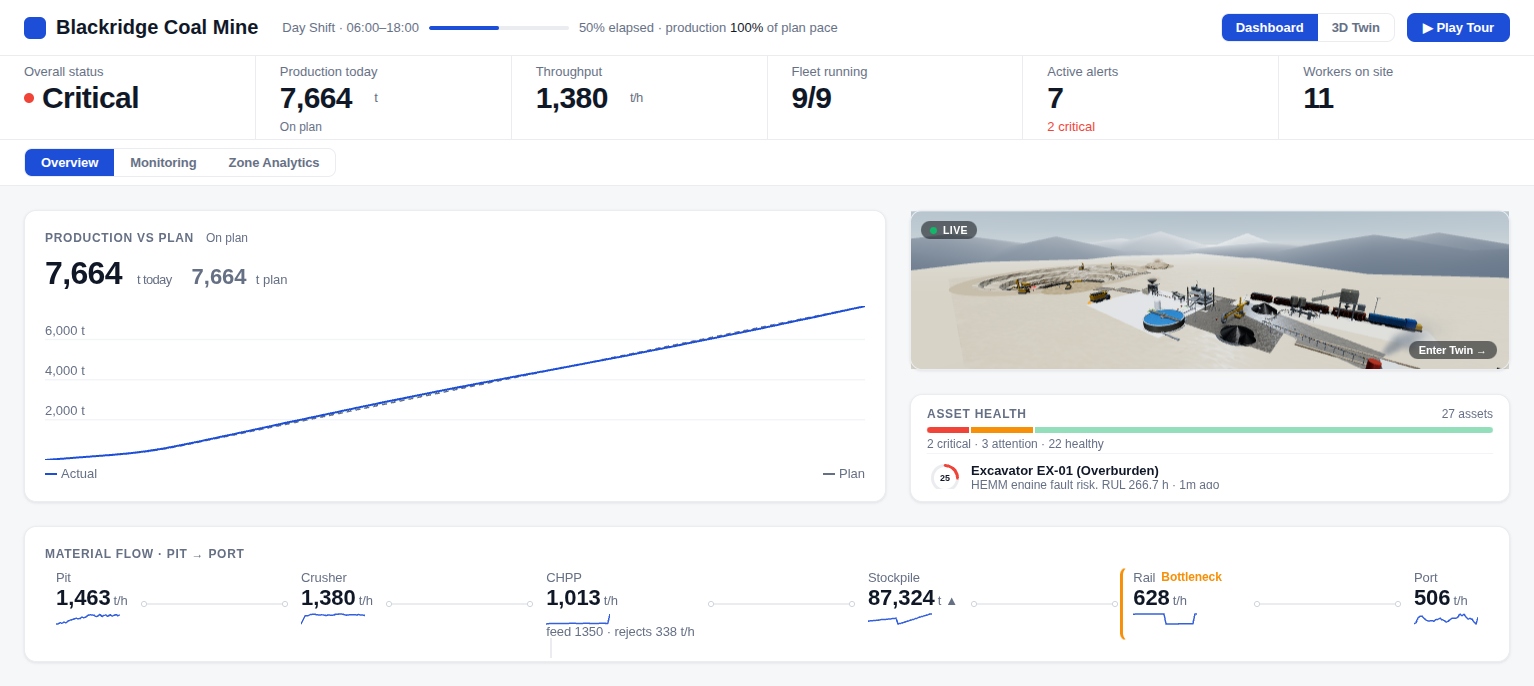
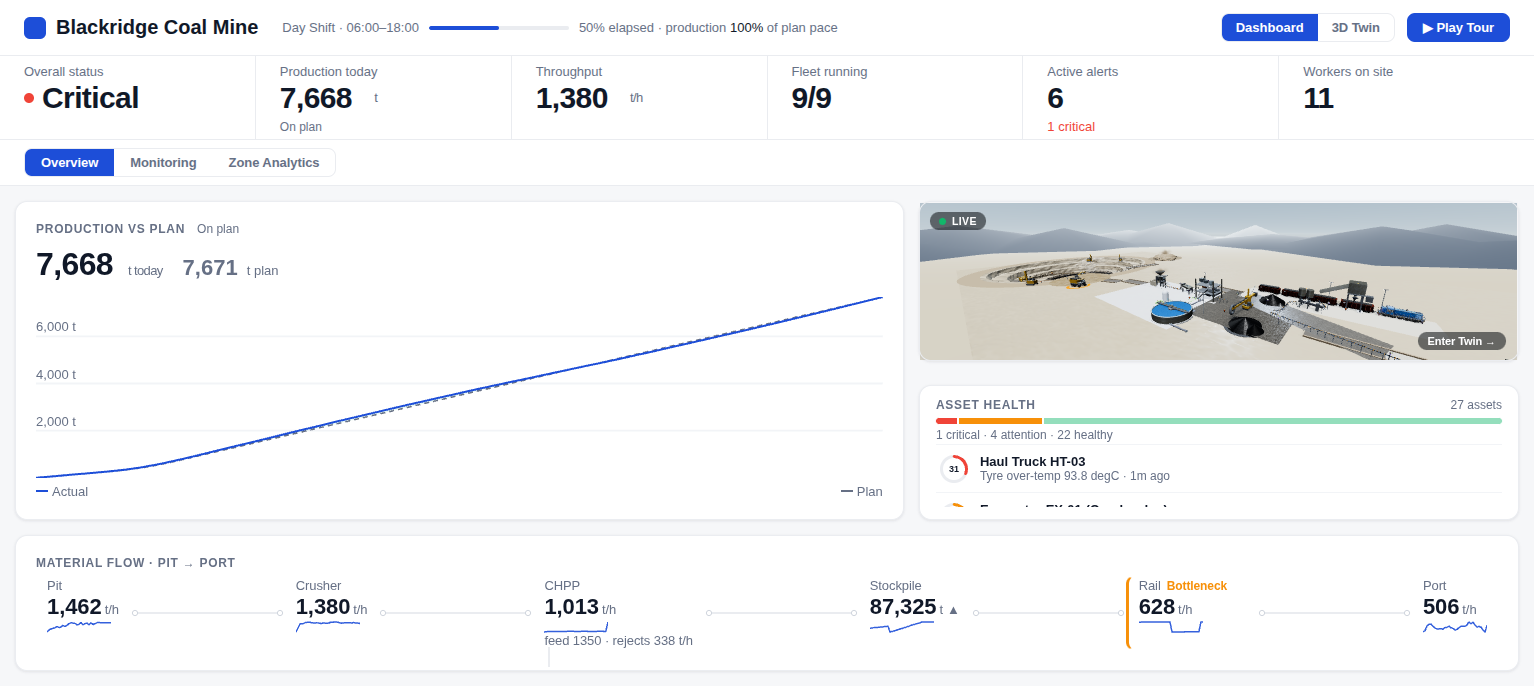
Fix Monitoring tab crash: stray listRef on the ledger scroller
The scrollTop-pin ref replace matched two identical scroller strings and
also landed on the Monitoring ledger's list, where listRef doesn't exist —
ReferenceError on tab open. Removed; the ref stays only on the asset-health
list it was meant for.

diff --git a/app/src/components/dashboard/OpsDashboard.jsx b/app/src/components/dashboard/OpsDashboard.jsx
@@ -206,7 +206,7 @@ function Ledger({ m, objects, alerts, expanded, setExpanded, dash }) {
   return (
     <div className="panel-in" style={{ ...card, minWidth: 0, minHeight: 0, height: '100%', display: 'flex', flexDirection: 'column' }}>
       <div style={{ ...ty.cardTitle, padding: '18px 20px 6px', flexShrink: 0 }}>Monitoring Use Cases</div>
-      <div ref={listRef} className="dash-scroll" style={{ flex: '1 1 auto', minHeight: 0, overflowY: 'auto', overflowAnchor: 'none' }}>
+      <div className="dash-scroll" style={{ flex: '1 1 auto', minHeight: 0, overflowY: 'auto', overflowAnchor: 'none' }}>
         {TILES.map((tile, i) => (
           <LedgerRow key={tile.id} tile={tile} m={m} objects={objects} alerts={alerts} first={i === 0}
             expanded={expanded === tile.id}
